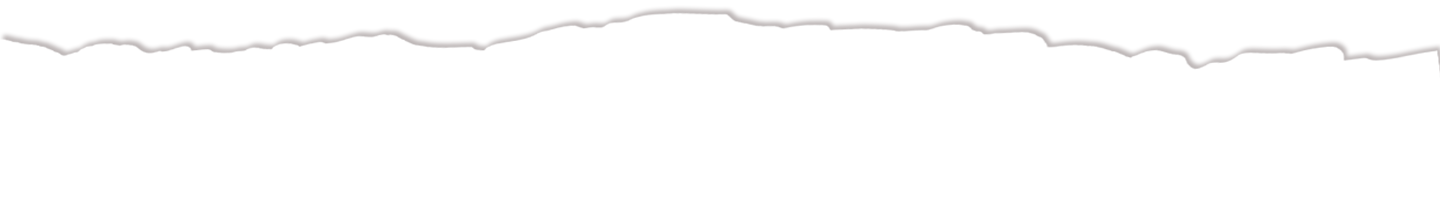
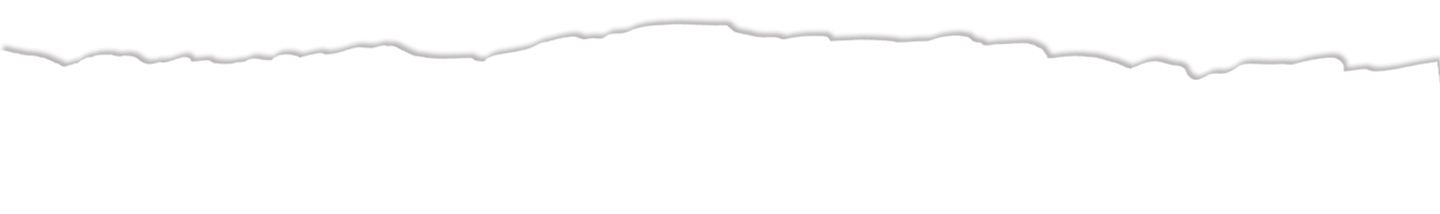
Conteudos da pagina

Changed region(s): [[0.0, 0.0293, 1.0, 0.3805]]

diff --git a/index.html b/index.html
@@ -26,9 +26,9 @@
 
 <body>
 
-    <header>
+    <header class="fixed-top">
         <!-- place navbar here -->
-        <nav class="navbar navbar-expand-sm bg-papel-bottom pt-0 pb-3"> <!--PT e PB é para definir o padding-->
+        <nav class="navbar navbar-expand-sm bg-papel-bottom pt-0 pb-4"> <!--PT e PB é para definir o padding-->
             <div class="container">
                 <a class="navbar-brand" href="#"> <img src="imagens/logo.png" class="logo" alt="logotipo Summer Exploring"></a>
                 <button class="navbar-toggler d-lg-none" type="button" data-bs-toggle="collapse"
@@ -68,33 +68,34 @@
         </nav>
 
     </header>
-    <main>
-
-        <section id="banner-topo">
+    <main class="col-lg-10 offset-lg-1"> <!--Col é a largura e Offset é as colunas (centralizar)-->
+        <section id="banner-topo" class="d-none d-md-block"> <!--primeiro section, foi banner, carrossel, toda a parte de cima-->
             <div id="carouselId" class="carousel slide" data-bs-ride="carousel">
                 <ol class="carousel-indicators">
-                    <!--essas sao as-->
+                    <!--essas sao as div do carrossel-->
                     <li data-bs-target="#carouselId" data-bs-slide-to="0" class="active" aria-current="true" aria-label="First slide"></li>
                     <li data-bs-target="#carouselId" data-bs-slide-to="1" aria-label="Second slide"></li>
                     <li data-bs-target="#carouselId" data-bs-slide-to="2" aria-label="Third slide"></li>
+                   <!--esses são os indicadores, entao se quiser colocar 5 fotos, preimeiro tem que colorcar os cincos li--> 
                 </ol>
                 <div class="carousel-inner" role="listbox">
+                 <!--o carrossel sempre fica dentro do div-->   
                     <div class="carousel-item active">
-                        <img src="imagens/amigos-foto2.jpg" class="w-100 d-block" alt="First slide">
+                        <img src="imagens/banner-topo-aventureira.jpg" class="w-100 d-block" alt="First slide">
                         <div class="carousel-caption d-none d-md-block">
                             <h3>Title</h3>
                             <p>Description</p>
                         </div>
                     </div>
                     <div class="carousel-item">
-                        <img src="holder.js/900x500/auto/#666:#444/text:Second slide" class="w-100 d-block" alt="Second slide">
+                        <img src="imagens/banner-topo-jeep.jpg" class="w-100 d-block" alt="Second slide">
                         <div class="carousel-caption d-none d-md-block">
                             <h3>Title</h3>
                             <p>Description</p>
                         </div>
                     </div>
                     <div class="carousel-item">
-                        <img src="holder.js/900x500/auto/#666:#444/text:Third slide" class="w-100 d-block" alt="Third slide">
+                        <img src="imagens/banner-topo-montanha.jpg" class="w-100 d-block" alt="Third slide">
                         <div class="carousel-caption d-none d-md-block">
                             <h3>Title</h3>
                             <p>Description</p>
@@ -110,7 +111,49 @@
                     <span class="visually-hidden">Next</span>
                   </button>
             </div>
+        </section>
 
+        <section id="bora" class="my-4 bg-folhas-left">
+            <h2 class="text-center fw-bold text-uppercase fs-1 txt-laranja">Bora lá</h2>
+             <p class="text-center col-md-6 offset-md-3 mb-3">Lorem ipsum dolor sit, amet consectetur adipisicing elit. Accusamus, inventore numquam exercitationem aperiam sapiente explicabo? Eum, consectetur accusamus in aspernatur, nam veritatis dolore quibusdam repellendus tenetur quam enim voluptates officia!</p>
+
+            <div class="row">
+             <div class="col-md-4">
+            <div class="card bg-cinza-op5 text-light rounded-0 border-0">
+                <img class="card-img-top rounded-0" src="./imagens/amigos-grupo2.jpg" alt="Title">
+                <div class="card-body">
+                    <h4 class="card-title">Title</h4>
+                    <p class="card-text">Lorem ipsum dolor, sit amet consectetur adipisicing elit. Amet numquam beatae qui, adipisci reiciendis non. Nihil, et temporibus sed velit iure dolores sit sapiente provident vero pariatur, architecto ea nesciunt.</p>
+                </div>
+            </div>
+             </div>
+
+             <div class="col-md-4">
+                 <div class="card bg-cinza-op5 text-light rounded-0 border-0">
+                     <img class="card-img-top rounded-0" src="./imagens/aventureira-grupo2.jpg" alt="Title">
+                     <div class="card-body">
+                         <h4 class="card-title">Title</h4>
+                         <p class="card-text">Lorem ipsum dolor sit amet consectetur adipisicing elit. Fugit neque sint explicabo et commodi. Provident sequi dolor nulla neque nobis a dicta? Nulla consequuntur minima blanditiis rem corrupti, neque doloribus?</p>
+                     </div>
+                 </div>
+
+             </div>
+
+             <div class="col-md-4">
+                 <div class="card bg-cinza-op5 text-light rounded-0 border-0">
+                     <img class="card-img-top rounded-0" src="./imagens/aventureira-imagem3-grupo2.jpg" alt="Title">
+                     <div class="card-body">
+                         <h4 class="card-title">Title</h4>
+                         <p class="card-text">Lorem ipsum, dolor sit amet consectetur adipisicing elit. Ea ab tempore molestias, quis saepe necessitatibus molestiae magni veniam velit officiis, quos numquam quasi officia possimus accusantium cumque pariatur vero ullam.</p>
+                     </div>
+                 </div>
+
+             </div>
+
+            </div>
+         <div class="d-grid col-4 mx-auto mt-4">
+             <button class="roundend-5 border-0 bg-cinza text-light p-3">Show More</button>
+         </div>
         </section>
 
 

diff --git a/css/style.css b/css/style.css
@@ -14,10 +14,9 @@ body{
 /* header sytles */
 
 .bg-papel-bottom{
-    height: 130px;
-    background-image: url('../imagens/bg-rasgado-branco-base.png');
+    background-image: url('../imagens/bg-rasgado-branco-topo.png');
     background-size: 100%;
-    background-position: 0 50px; /* mexendo na paste rasgada */
+    background-position: 0 -50px; /* mexendo posição da parte rasgada */
     background-repeat: no-repeat;
 
 }
@@ -74,6 +73,34 @@ body{
     color: #68635f;
     text-decoration:none;
     }
+
+
+    .txt-laranja{
+      color:  #e2a355;
+
+    }
+
+    .txt-cinza{
+      color:#7f7770 ;
+     
+    }
+
+   .bg-laranja{
+    color: #deb37e; 
+   }
+
+   .bg-cinza{
+   background-color: #7f7770;
+  } 
+  .bg-cinza-op5{
+    background-color: rgba(127, 119, 112, 0.50);
+}
+
+  .bg-folhas-left{
+    background-image: url('../imagens/bg-sombra-folhagem.png');
+    background-repeat: no-repeat; /*para não repetir a imagem*/
+    background-position: 0 ;  /*posição da imagem*/
+  }
 
   /* CELULAR E TABLET */
 
